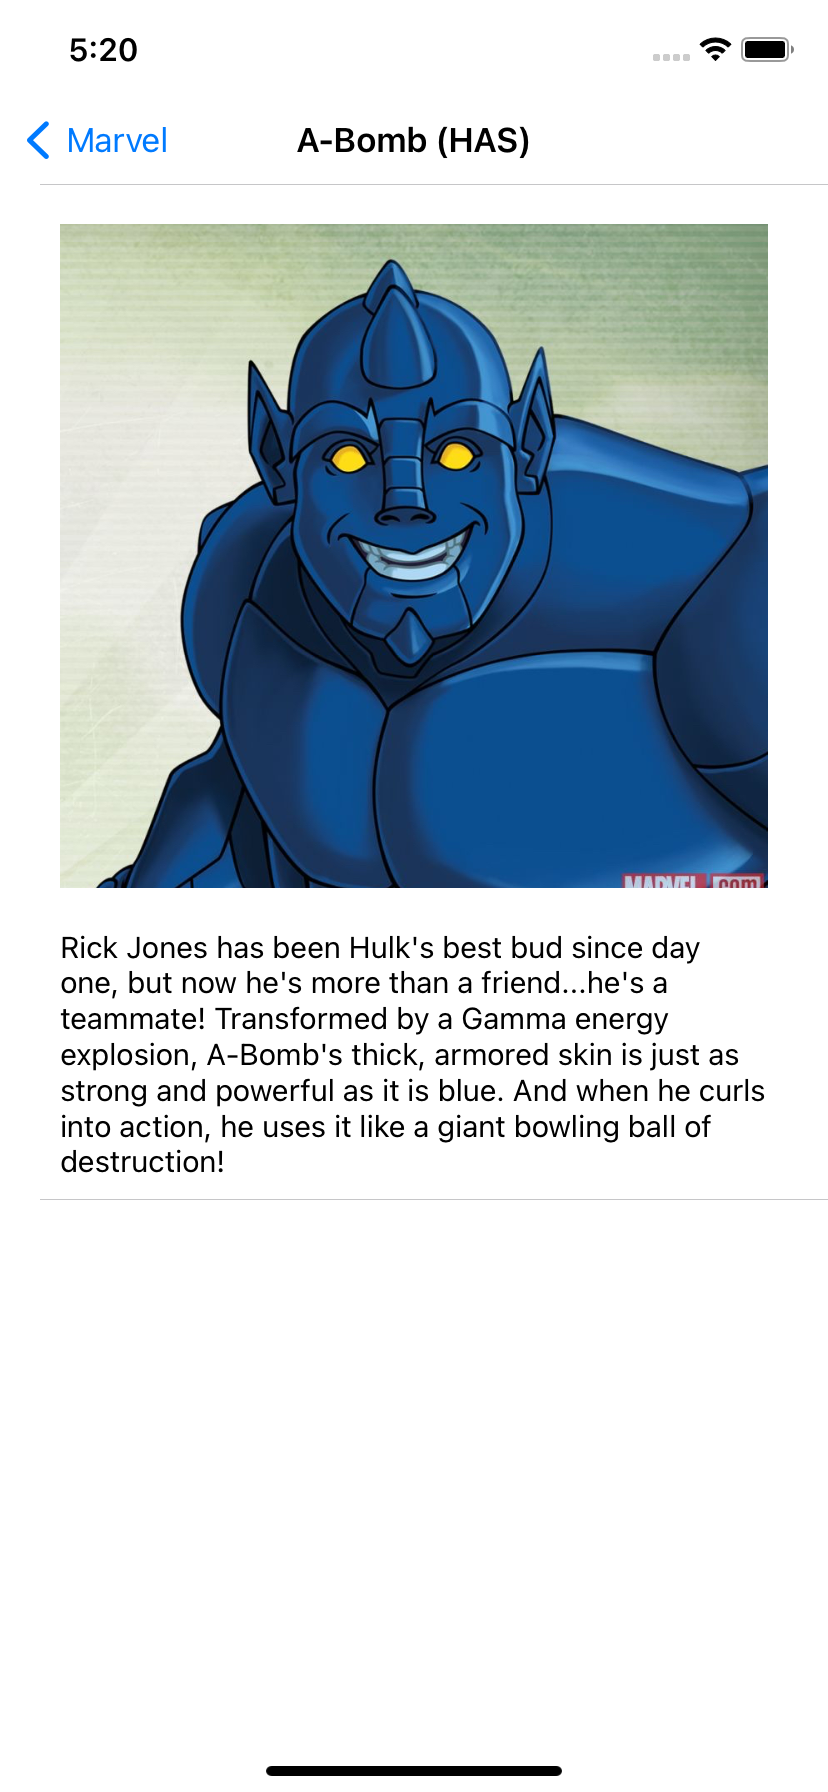
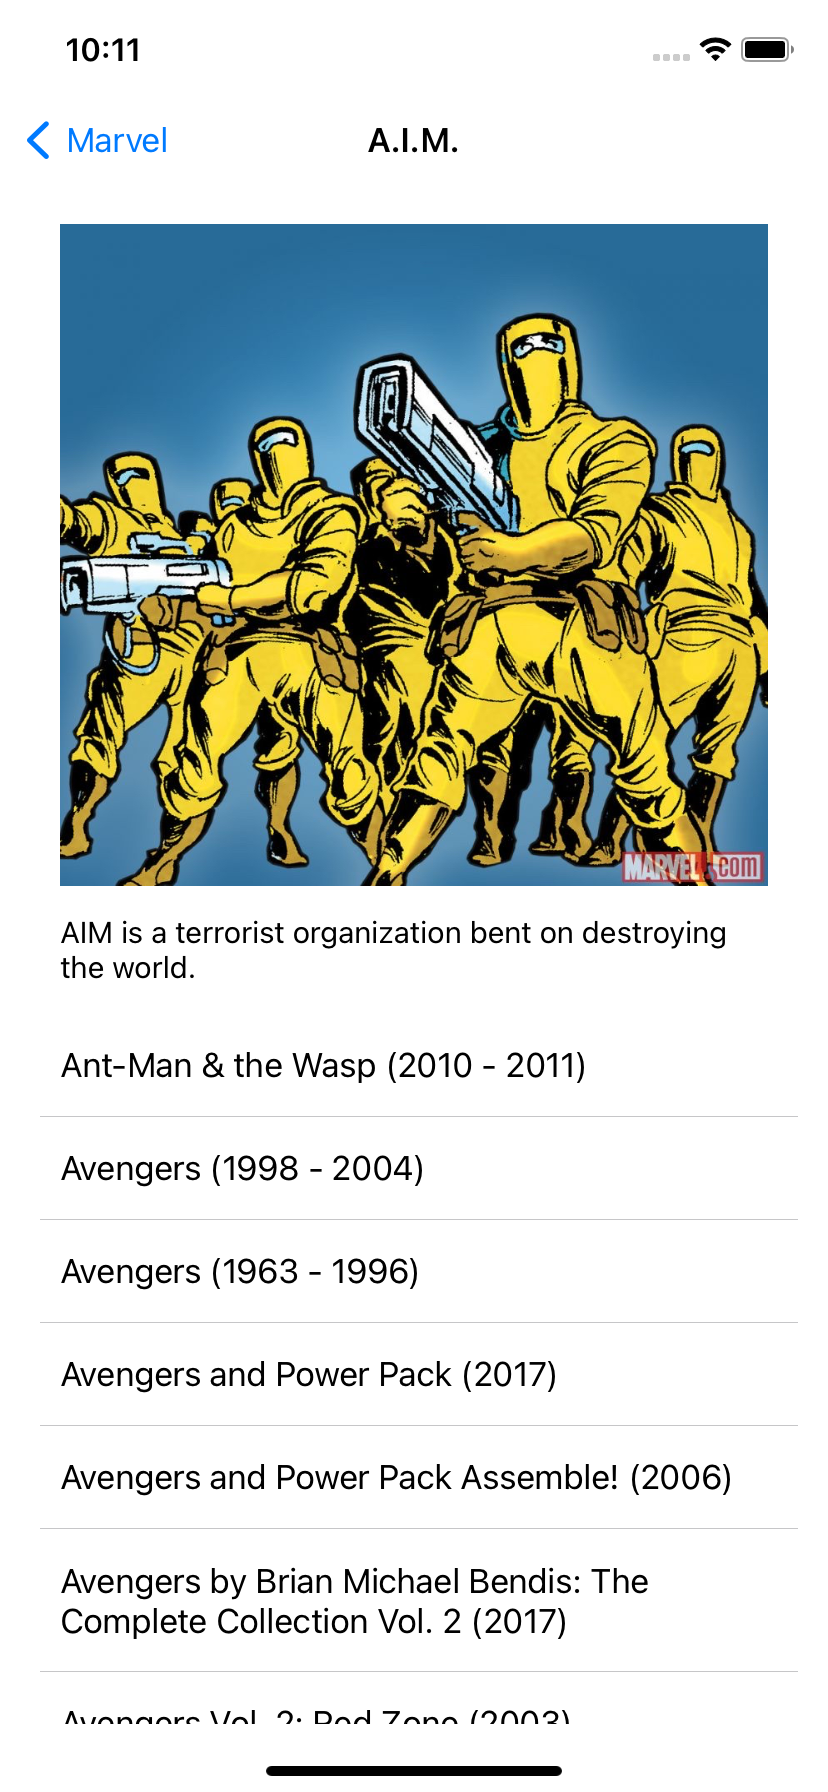
Code Updated

diff --git a/Marvel/MarvelDetailViewController.swift b/Marvel/MarvelDetailViewController.swift
@@ -6,6 +6,7 @@
 //
 
 import UIKit
+import Kingfisher
 
 class MarvelDetailViewController: UIViewController {
     
@@ -13,6 +14,8 @@ class MarvelDetailViewController: UIViewController {
     var pageTitle: String?
     var marvelDetail = MarvelDetailViewModel()
     @IBOutlet weak var marvelDetailTableView: UITableView!
+    @IBOutlet weak var marvelDetailImage: UIImageView!
+    @IBOutlet weak var marvelDescription: UILabel!
     
     override func viewDidLoad() {
         super.viewDidLoad()
@@ -28,6 +31,7 @@ class MarvelDetailViewController: UIViewController {
         showActivityIndicator()
         // Fetch marvel detail API
         marvelDetail.fetchMarvelDetail(characterID: characterID)
+        marvelDetailTableView.alwaysBounceVertical = false
     }
 
 }
@@ -36,14 +40,17 @@ class MarvelDetailViewController: UIViewController {
 extension MarvelDetailViewController: UITableViewDelegate, UITableViewDataSource {
     
     func tableView(_ tableView: UITableView, numberOfRowsInSection section: Int) -> Int {
-        return 1
+        if let count = self.marvelDetail.marvelModelDetail?.data.results[0].series.items.count {
+            return count
+        }
+        return 0
     }
     
     func tableView(_ tableView: UITableView, cellForRowAt indexPath: IndexPath) -> UITableViewCell {
         guard let cell = tableView.dequeueReusableCell(withIdentifier: Constants.marvelDetailTableCell) as? MarvelDetailTableCell else
         { return UITableViewCell() }
-        if let value = marvelDetail.marvelModelDetail?.data.results[indexPath.row] {
-            cell.updateCell(model: value)
+        if let name = self.marvelDetail.marvelModelDetail?.data.results[0].series.items[indexPath.row].name { //marvelDetail.marvelModelDetail?.data.results[indexPath.row] {
+            cell.updateCell(name: name)
         }
         return cell
     }
@@ -56,6 +63,14 @@ extension MarvelDetailViewController: MarvelDetailViewModelDelegate {
     func marvelDetailResponse() {
         if marvelDetail.marvelModelDetail?.data.results.count ?? 0 > 0 {
             marvelDetailTableView.reloadData()
+            if let value = self.marvelDetail.marvelModelDetail?.data.results[0] {
+                DispatchQueue.main.async {
+                    let imageURLString = value.thumbnail.path + Constants.dot + value.thumbnail.thumbnailExtension.rawValue
+                    let url = URL(string: imageURLString)
+                    self.marvelDetailImage.kf.setImage(with: url)
+                }
+                marvelDescription.text = value.description
+            }
         }
         hideActivityIndicator()
     }

diff --git a/Marvel/Cell/MarvelDetailTableCell.swift b/Marvel/Cell/MarvelDetailTableCell.swift
@@ -10,8 +10,7 @@ import Kingfisher
 
 class MarvelDetailTableCell: UITableViewCell {
     
-    @IBOutlet private weak var marvelDetailImage: UIImageView!
-    @IBOutlet private weak var marvelDetailDescription: UILabel!
+    @IBOutlet private weak var marvelSeries: UILabel!
     
     override func awakeFromNib() {
         super.awakeFromNib()
@@ -25,13 +24,8 @@ class MarvelDetailTableCell: UITableViewCell {
     }
     
     // Update Cell UI
-    func updateCell(model: Result) {
-        DispatchQueue.main.async {
-            let imageURLString = model.thumbnail.path + Constants.dot + model.thumbnail.thumbnailExtension.rawValue
-            let url = URL(string: imageURLString)
-            self.marvelDetailImage.kf.setImage(with: url)
-        }
-        marvelDetailDescription.text = model.description
+    func updateCell(name: String) {
+        marvelSeries.text = name
     }
 
 }

diff --git a/Marvel/Model/MarvelModel.swift b/Marvel/Model/MarvelModel.swift
@@ -22,9 +22,18 @@ struct DataClass: Codable {
 struct Result: Codable {
     let id: Int
     let name, description: String
-    let modified: String
     let thumbnail: Thumbnail
-    let resourceURI: String
+    let comics, series: Comics
+}
+
+// MARK: - Comics
+struct Comics: Codable {
+    let items: [ComicsItem]
+}
+
+// MARK: - ComicsItem
+struct ComicsItem: Codable {
+    let name: String
 }
 
 struct Thumbnail: Codable {
